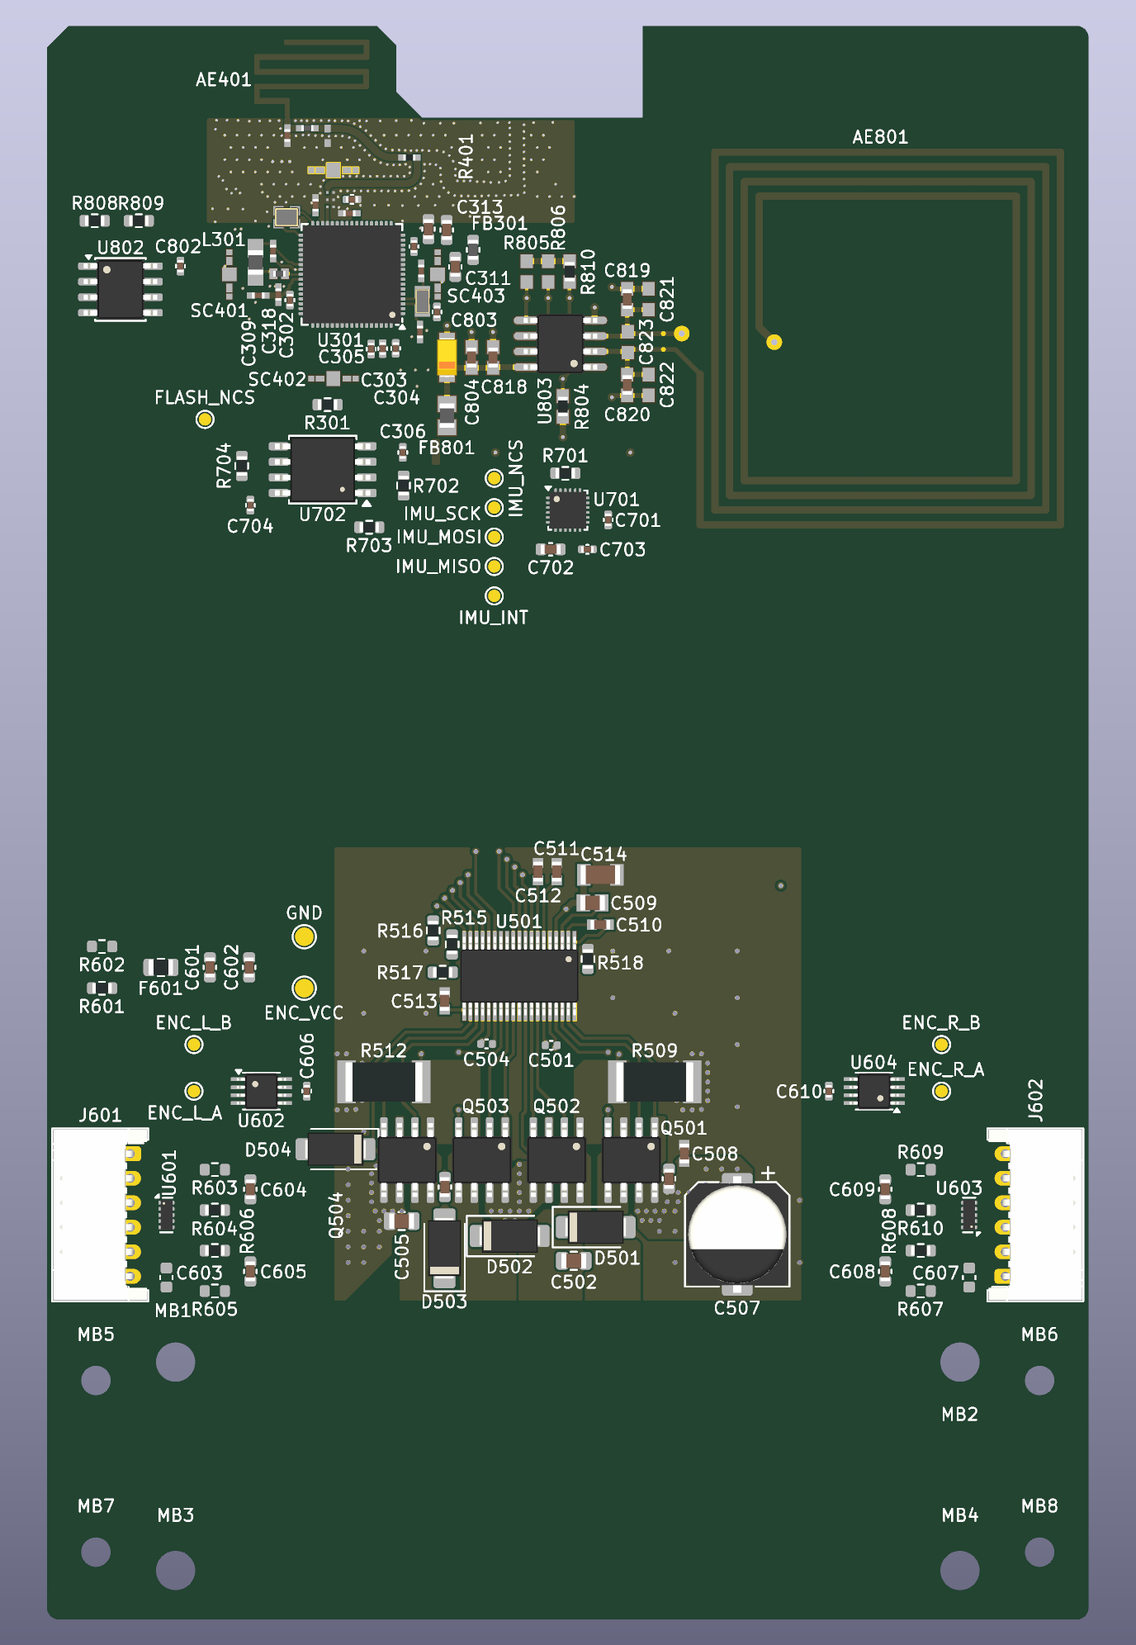
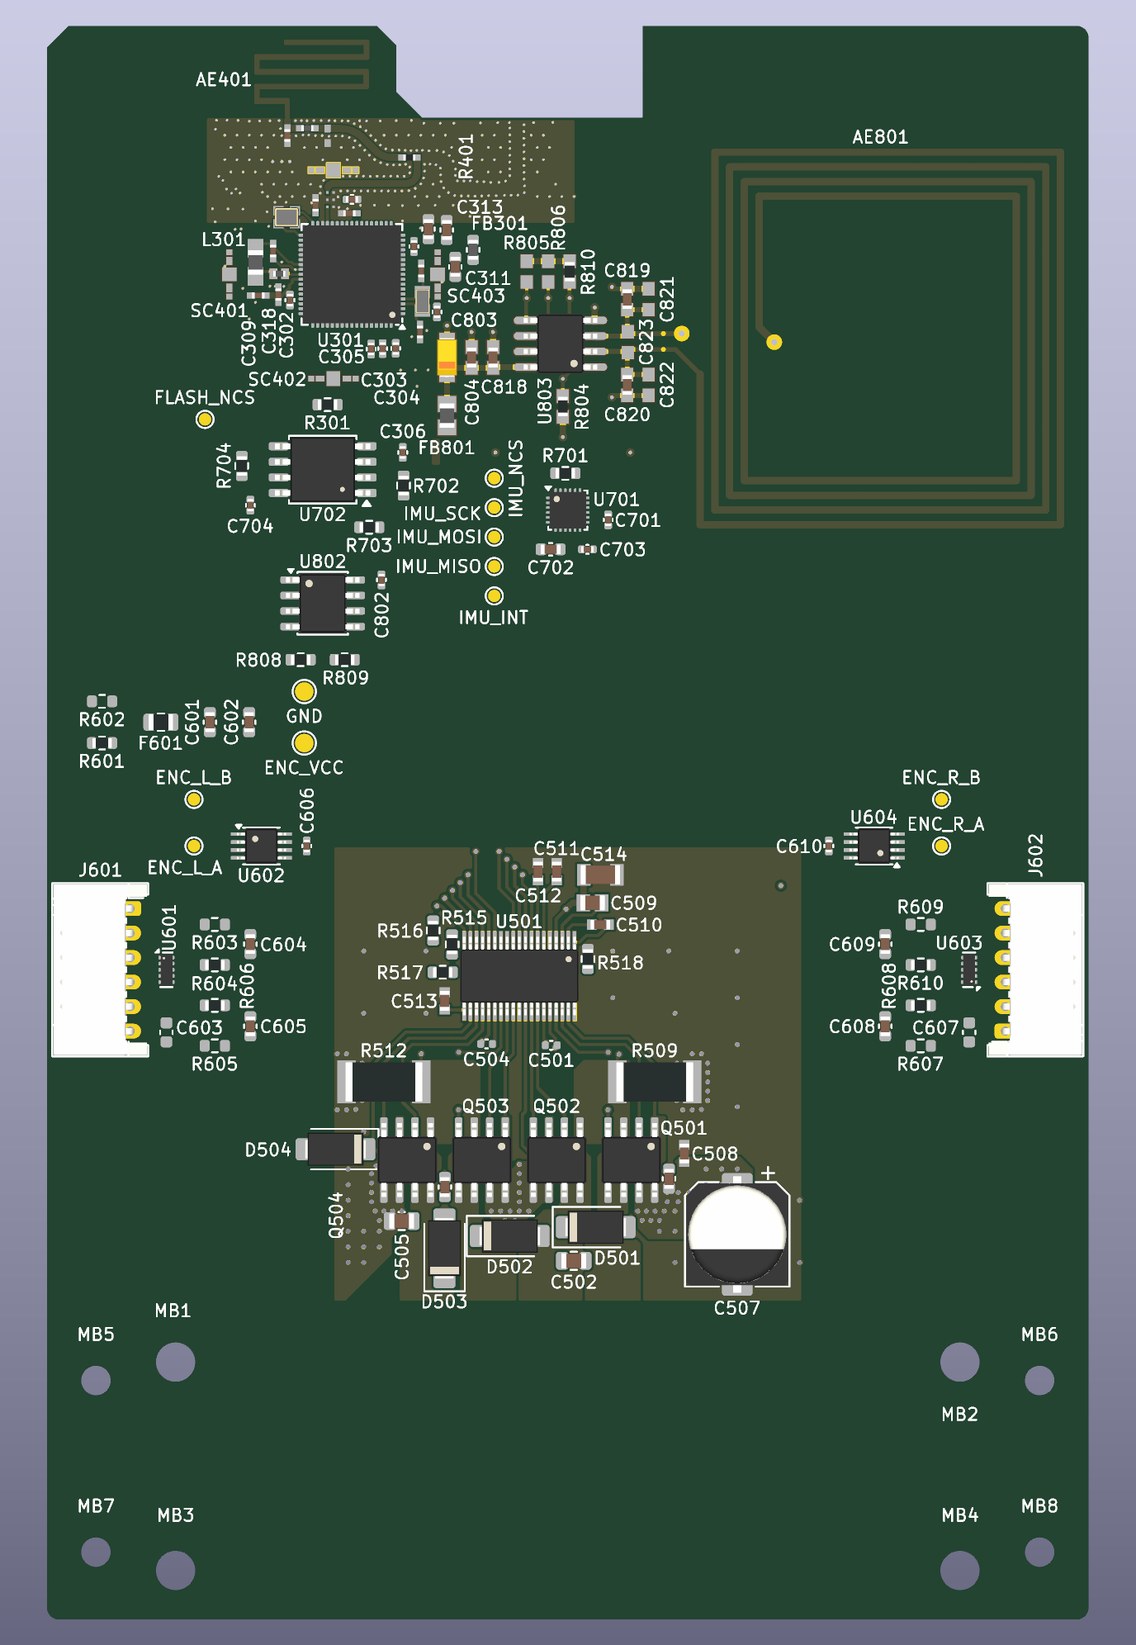
feat(pcb): motor connectors 20 mm higher, EEPROM under the flash (D-044)
- J601 / J602, their encoder chains and supply move up 20 mm: pins at
  x +-35.7 from z 35.5 to 45.5. The upper four pins of each sit over the
  battery's side edges: the cradle gets a relief there, and the battery
  rule exempts J601 / J602 only (placement.BATTERY_RELIEF, DRC rule; a test
  with J101 under the battery is still caught).
- U802 (M24C64) under U702 in the same column (x -20), C802 and the I2C3
  pull-ups below it.
- place_block.py --replace re-places a block after its table changes.

Claude-Session: https://claude.ai/code/session_014WUWh5VkSPnHwtWn45y92W

Changed region(s): [[0.0312, 0.3424, 0.3438, 0.8092], [0.6875, 0.4669, 0.9688, 0.8092], [0.0625, 0.1245, 0.1562, 0.2179]]

diff --git a/scripts/pcb/placement.py b/scripts/pcb/placement.py
@@ -135,10 +135,10 @@ DRAWINGS = [
     ("rect", (-_HALF, GROUND_EDGE_Z), (_TAB_RIGHT, TOP_Z), "MB1355 ANTENNA TAB (D-037)"),
 ]
 
-# Motor connectors and encoder inputs at the side edges (owner, D-042), placed once by
+# Motor connectors and encoder inputs at the side edges (owner, D-042), raised 20 mm (owner, D-044), placed once by
 # scripts/pcb/place_block.py motor_io.
 # (ref, x, z, rotation): mechanical, at the centre of the footprint's pads. J601's plug faces the left edge (its courtyard
-# ends at the edge and 0.5 mm above the bracket strip), pin 1 (M-) at the top, pins 2-5 (VCC, A, B, GND) between the
+# ends at the edge; pins z 35.5-45.5, the upper four over the battery cradle's relief, BATTERY_RELIEF), pin 1 (M-) at the top, pins 2-5 (VCC, A, B, GND) between the
 # motor pins. The encoder chain follows the signal inward: U601 (ESD, pass-through pads 1 / 2 on A / B, interface-layout
 # s2), four rows (A pull-up DNP, A 100 Ohm, B 100 Ohm, B pull-up DNP) with a label lane beside each, then the 1 nF caps;
 # the SN74LVC3G17, its bypass and its test pads sit above the rows (z 30), where the drive stage leaves room, with the
@@ -146,32 +146,34 @@ DRAWINGS = [
 # The right side mirrors the left across x = 0, each part turned 180 degrees: J602's pin 1 is at the bottom, so there A
 # sits below B and the row parts map by row (MOTOR_IO_RIGHT_REFS).
 MOTOR_IO_LEFT = [
-    ("J601", -35.7, 20.5, 270.0),
-    ("U601", -32.75, 20.5, 0.0),
-    ("C603", -32.75, 15.4, 90.0),
-    ("R603", -28.8, 24.2, 0.0),
-    ("R604", -28.8, 20.9, 0.0),
-    ("R606", -28.8, 17.6, 0.0),
-    ("R605", -28.8, 14.3, 0.0),
-    ("C604", -25.9, 22.6, 90.0),
-    ("C605", -25.9, 15.9, 90.0),
-    ("U602", -25.0, 30.6, 0.0),
-    ("C606", -21.3, 30.6, 90.0),
-    ("TP601", -30.5, 30.6, 0.0),
-    ("TP602", -30.5, 34.4, 0.0),
+    ("J601", -35.7, 40.5, 270.0),
+    ("U601", -32.75, 40.5, 0.0),
+    ("C603", -32.75, 35.4, 90.0),
+    ("R603", -28.8, 44.2, 0.0),
+    ("R604", -28.8, 40.9, 0.0),
+    ("R606", -28.8, 37.6, 0.0),
+    ("R605", -28.8, 34.3, 0.0),
+    ("C604", -25.9, 42.6, 90.0),
+    ("C605", -25.9, 35.9, 90.0),
+    ("U602", -25.0, 50.6, 0.0),
+    ("C606", -21.3, 50.6, 90.0),
+    ("TP601", -30.5, 50.6, 0.0),
+    ("TP602", -30.5, 54.4, 0.0),
 ]
+# Through-hole parts whose pins may sit over the battery: the cradle has a relief for them (owner, D-044).
+BATTERY_RELIEF = {"J601", "J602"}
 MOTOR_IO_RIGHT_REFS = {"J601": "J602", "U601": "U603", "C603": "C607", "U602": "U604", "C606": "C610",
                        "R603": "R609", "R604": "R610", "R606": "R608", "R605": "R607", "C604": "C609", "C605": "C608",
                        "TP601": "TP603", "TP602": "TP604"}
 # Encoder supply (one, above the left chain): +5V -> R601 (or R602, DNP, from +3V3) -> F601 PTC -> C601 / C602 -> ENC_VCC.
 MOTOR_IO_SUPPLY = [
-    ("R601", -38.0, 39.0, 0.0),
-    ("R602", -38.0, 42.4, 0.0),
-    ("F601", -33.2, 40.7, 0.0),
-    ("C601", -29.2, 40.7, 90.0),
-    ("C602", -26.0, 40.7, 90.0),
-    ("TP605", -21.5, 39.0, 0.0),
-    ("TP606", -21.5, 43.2, 0.0),
+    ("R601", -38.0, 59.0, 0.0),
+    ("R602", -38.0, 62.4, 0.0),
+    ("F601", -33.2, 60.7, 0.0),
+    ("C601", -29.2, 60.7, 90.0),
+    ("C602", -26.0, 60.7, 90.0),
+    ("TP605", -21.5, 59.0, 0.0),
+    ("TP606", -21.5, 63.2, 0.0),
 ]
 
 
@@ -180,13 +182,13 @@ def motor_io():
     right = [(MOTOR_IO_RIGHT_REFS[ref], -x, z, (rot + 180.0) % 360.0) for ref, x, z, rot in MOTOR_IO_LEFT]
     return MOTOR_IO_LEFT + right + MOTOR_IO_SUPPLY
 
-# IMU on the centre line, flash below the MCU, EEPROM left of it (owner, D-043), placed once by
+# IMU on the centre line, flash below the MCU, EEPROM stacked under the flash (owner, D-043, D-044), placed once by
 # scripts/pcb/place_block.py imu_memory. (ref, x, z, rotation): mechanical, at the centre of the footprint's pads.
 # U701 (MPU-6500) at rotation 0, pin 1 top-left: chip +X along +x, +Y up, +Z out of the component side
 # (PS-MPU-6500A-01 s9.1); its decoupling at the pins it serves (Table 11: VDDIO pin 8, REGOUT pin 10, VDD pin 13), the
 # nCS pull-up by pin 22, the SPI2 / INT test pads in a column beside it. U702 (W25Q16JV) under the MCU's SPI1 pins, turned so DI / CLK
-# (pins 5 / 6) face R301 and VCC (pin 8, C704) points away from the MCU's caps, its /CS, /WP, /HOLD pull-ups at their pins; R301 (SPI1 SCK source termination) at the MCU's SCK pin. U802 (M24C64) in the
-# free band left of the MCU, SDA / SCL toward it, the I2C3 pull-ups above it.
+# (pins 5 / 6) face R301 and VCC (pin 8, C704) points away from the MCU's caps, its /CS, /WP, /HOLD pull-ups at their pins; R301 (SPI1 SCK source termination) at the MCU's SCK pin. U802 (M24C64) under the
+# flash in the same column (x -20, D-044), SDA / SCL on its right, the I2C3 pull-ups below it.
 IMU_POSITION = (0.0, 78.0)
 IMU_MEMORY = [
     ("U701", IMU_POSITION[0], IMU_POSITION[1], 0.0),
@@ -206,10 +208,10 @@ IMU_MEMORY = [
     ("R704", -26.6, 81.6, 90.0),
     ("TP706", -29.6, 85.4, 0.0),
     ("R301", -19.6, 86.6, 0.0),
-    ("U802", -36.5, 96.0, 0.0),
-    ("C802", -31.6, 97.9, 90.0),
-    ("R808", -38.6, 101.6, 0.0),
-    ("R809", -35.0, 101.6, 0.0),
+    ("U802", -20.0, 70.4, 0.0),
+    ("C802", -15.2, 72.3, 90.0),
+    ("R808", -21.8, 65.8, 0.0),
+    ("R809", -18.2, 65.8, 0.0),
 ]
 
 

diff --git a/scripts/pcb/place_block.py b/scripts/pcb/place_block.py
@@ -10,11 +10,13 @@
 Each block is a list from placement.py of (ref, x, z, rotation): mechanical, at the centre of the footprint's pads. The
 parts move from the staging area to their spots, and the script refuses if any part:
   - leaves the board, or its courtyard reaches into the bracket strip (no parts there, D-026);
-  - puts a through-hole pin over the battery (BATTERY_BACK, D-025);
+  - puts a through-hole pin over the battery (BATTERY_BACK, D-025), except the parts the cradle has a relief for
+    (placement.BATTERY_RELIEF, D-044);
   - touches another part's courtyard, comes closer than rf_block.PART_CLEARANCE to another net's copper, or overlaps
     another silk outline (rf_block.spot_ok).
 It locks the block's anchors and lays the silkscreen labels out (silk.py, D-041). Re-running is a no-op once the
-anchors are on the board. Run board.py first so the parts exist.
+anchors are on the board; --replace moves an already placed block to its table again (after the owner changes it).
+Run board.py first so the parts exist.
 """
 
 import argparse
@@ -49,6 +51,7 @@ def problems(board, fp, outline, others):
     corners = [pcbnew.VECTOR2I(x, y) for x in (box.GetLeft(), box.GetRight()) for y in (box.GetTop(), box.GetBottom())]
     if not all(outline.Contains(c) for c in corners):
         found.append("courtyard leaves the board")
+    relief = fp.GetReference() in placement.BATTERY_RELIEF
     if box.GetBottom() >= B.to_board(0.0, placement.STRIP_TOP_Z).y:
         found.append("courtyard reaches the bracket strip")
     battery = placement.BATTERY
@@ -56,7 +59,7 @@ def problems(board, fp, outline, others):
     y0, y1 = B.to_board(0, battery["z1"] + 1).y, B.to_board(0, battery["z0"] - 1).y
     for pad in fp.Pads():
         p = pad.GetPosition()
-        if pad.GetAttribute() == pcbnew.PAD_ATTRIB_PTH and x0 <= p.x <= x1 and y0 <= p.y <= y1:
+        if not relief and pad.GetAttribute() == pcbnew.PAD_ATTRIB_PTH and x0 <= p.x <= x1 and y0 <= p.y <= y1:
             found.append(f"through-hole pin {pad.GetNumber()} over the battery")
     if not RF.spot_ok(board, fp, others):
         found.append("touches a courtyard, another net's copper or a silk outline")
@@ -101,10 +104,10 @@ def apply(board, name):
     print(f"placed {len(parts)} parts: {' / '.join(anchors)} locked")
 
 
-def stage(name):
+def stage(name, replace):
     board = pcbnew.LoadBoard(str(B.BOARD))
     anchors = BLOCKS[name][1]
-    if has_placed(board, anchors):
+    if has_placed(board, anchors) and not replace:
         print(f"{' / '.join(anchors)} already on the board: nothing to do")
         sys.exit(3)
     apply(board, name)
@@ -114,15 +117,16 @@ def stage(name):
 def main():
     parser = argparse.ArgumentParser(description=__doc__.split("\n")[0])
     parser.add_argument("--apply", choices=sorted(BLOCKS), help="the block to place (one shot)")
+    parser.add_argument("--replace", action="store_true", help="move an already placed block to its table again")
     parser.add_argument("--pcbnew-stage", choices=sorted(BLOCKS), help=argparse.SUPPRESS)
     args = parser.parse_args()
     if args.pcbnew_stage:
-        stage(args.pcbnew_stage)
+        stage(args.pcbnew_stage, args.replace)
         return
     if not args.apply:
         parser.error("nothing to do without --apply <block>")
     project = B.PROJECT.read_bytes()
-    result = subprocess.run([sys.executable, __file__, "--pcbnew-stage", args.apply])
+    result = subprocess.run([sys.executable, __file__, "--pcbnew-stage", args.apply] + (["--replace"] if args.replace else []))
     B.PROJECT.write_bytes(project)
     if result.returncode == 3:
         return

diff --git a/scripts/pcb/board.py b/scripts/pcb/board.py
@@ -137,8 +137,8 @@ CUSTOM_RULES = """
 """
 
 CUSTOM_RULES += """
-(rule "Battery on the back: no through-hole pins under it (D-025); plated holes <= 0.4 mm (thermal vias) are vias"
-  (condition "A.Type == 'Pad' && A.Pad_Type == 'Through-hole' && A.Hole_Size_X > 0.4mm && A.insideArea('BATTERY_BACK')")
+(rule "Battery on the back: no through-hole pins under it (D-025); plated holes <= 0.4 mm (thermal vias) are vias; J601 / J602 sit over the cradle's relief (D-044)"
+  (condition "A.Type == 'Pad' && A.Pad_Type == 'Through-hole' && A.Hole_Size_X > 0.4mm && A.insideArea('BATTERY_BACK') && !A.memberOfFootprint('J601') && !A.memberOfFootprint('J602')")
   (constraint disallow pad))
 
 (rule "Bracket strip: no parts except the bracket holes (D-026)"

diff --git a/docs/decisions.md b/docs/decisions.md
@@ -48,3 +48,4 @@ D-013 to D-015 were signed off at the Phase 0 gate; D-016 was agreed at the same
 | D-041 | **Every part's reference on the silkscreen at JLCPCB's smallest text, none touching anything** (supersedes the 'references on F.Fab' of D-037 / D-039 / D-040). Labels are 1.0 mm high with a 0.15 mm line, KiCad's stroke font, upright at 0° or 90° (JLCPCB's published minimum, `pcb-design-rules` jlcpcb profile). `scripts/pcb/silk.py` places them (`board.py` and the paste scripts run it last): 0.15 mm from every other label, outline and mask opening (JLCPCB's silk-to-pad); off vias, part bodies (courtyards) and the antenna tab; 0.5 mm inside the edge; nearer their own part than any other. A clean label is never moved. Where no such spot exists within 3 mm the reference goes to F.Fab (assembly drawing): 17 parts in the MB1355 core (C301, C307, C308, C310, C312, C314–C317, C401, C402, FL401, L302, L401, SC404, Y301, Y302) and C503 / C506 beside TI's FETs. Footprint outlines are raised from KiCad's 0.12 mm to JLCPCB's 0.15 mm line. DRC: `silk_overlap`, `silk_over_copper`, `silk_edge_clearance`, `text_height`, `text_thickness` are errors; two parts' outlines may sit closer than 0.15 mm but never overlap (project rule; JLCPCB states no silk-to-silk figure), and the drive extras are placed with no outline overlap (D503, C505, C506 moved ≤ 0.6 mm). | 0.8 mm text in the dense corners (below JLCPCB's minimum); references on F.Fab for every copied corner (D-037 / D-039 / D-040) | Owner (2026-11-15): references on the silkscreen, not overlapping, clean and professional, at the smallest font JLCPCB makes. At 1.0 mm, 0402 parts at ST's 1 mm pitch leave no room; JLCPCB assembles from the pick-and-place file, so those references only matter for rework, where the assembly drawing has them. |
 | D-042 | **The motor connectors and their encoder inputs sit at the side edges, and bridge B drives the left motor.** J601 (left MG310) at the left edge and J602 at the right, JST PH S6B-PH-K with the plug entering from the side, pins at x ±35.7 from z 15.5 to 25.5 just above the bracket strip, locked as anchors. Each encoder chain runs inward in signal order: ESD at pins 2–5 (pass-through, interface-layout §2), the RC rows, the SN74LVC3G17 with its bypass and test pads above them; the right side mirrors the left; the encoder supply sits above the left chain. Placed by `scripts/pcb/place_block.py motor_io` from `placement.motor_io()`. Since D-040's 180° turn put bridge A on the right, the bridges are swapped so that each feeds the connector on its own side: bridge B (left) drives the left motor, bridge A the right; the MCU pins stay as the firmware has them (PA8 / PA9 = `leftInput1/2` now reach BIN1 / BIN2, PA10 / PA11 reach AIN1 / AIN2). Supersedes 'bridge A for the left motor' (HW-DRV-001, D-040, `docs/drive.md`). | Keep bridge A = left and cross the phases to the opposite edges; plug opening toward the bracket strip (clashes with the M2 / M3 screw heads) | Owner (2026-11-15): connectors per edge, close to the motor bracket; swap the bridges; place the supply and test pads too. The phases now run 15–25 mm on their own side instead of crossing. Firmware: unchanged pins and timer channels; the DRV8711's B status bits are the left motor's. The firmware design note (`motion-actuation.md` Part A, 'the left motor hangs on the first bridge') needs the same update. |
 | D-043 | **The IMU sits on the centre line; the flash and the EEPROM sit beside the MCU.** U701 (MPU-6500) at (0, 78), 78 mm above the axle, rotation 0, locked; its decoupling at its pins (PS-MPU-6500A-01 Table 11), the nCS pull-up and the SPI2 / INT test pads beside it. Axis map published in `docs/firmware-interface.md`: body (x, y, z) = chip (+Z, +X, +Y) for forward = the component side. U702 (W25Q16JV) below the MCU under its SPI1 pins, turned 180° so DI / CLK face R301 (SPI1 SCK 33 Ω, now between the MCU and the flash), with its pull-ups, bypass and FLASH_NCS test pad. U802 (M24C64) left of the MCU with C802 and the I2C3 pull-ups R808 / R809. Placed by `scripts/pcb/place_block.py imu_memory` from `placement.imu_memory()`; `motor_io.py` became `place_block.py` (blocks `motor_io`, `imu_memory`). Supersedes 'IMU beside the MCU, about 90 mm' (D-029, HW-SNS-002). | IMU in the top-centre pocket between ST's RF strip and the NFC coil (x ≈ +3, z ≈ 105: no room for its test pads, SPI2 detours round the NFC cluster); EEPROM below the MCU beside the flash | Owner (2026-11-15): IMU close to the top / centre, flash and EEPROM close to the MCU. The literal top centre is taken by the MB1355 RF strip and the MB1163 NFC copy; the centre line just below the NFC tag keeps the IMU on the body's symmetry plane, ≥ 35 mm from the 2.4 GHz antenna, with room for its support parts. r = 78 mm (was ~90) for the tangential-acceleration term. |
+| D-044 | **The motor connectors sit 20 mm higher, and the EEPROM sits under the flash.** J601 / J602 and their encoder chains and supply move up 20 mm: pins at x ±35.7 from z 35.5 to 45.5. Their upper four pins sit over the battery's side edges, so the battery cradle gets a relief there (x ±34.3…±37.1, z 38.4–46.6) and the 'no through-hole pins under the battery' rule (D-025) exempts J601 / J602 (`placement.BATTERY_RELIEF`, project DRC rule); any other through-hole part is still caught. U802 (M24C64) moves under U702 in the same column (x −20, z 70.4), with C802 and the I2C3 pull-ups R808 / R809 below it. `place_block.py --replace` re-places a block after its table changes. | +12.5 mm (the highest with every pin clear of the battery); +15 mm (two pins under it); EEPROM side by side with the flash at its height | Owner (2026-11-15): connectors 15–20 mm higher, chose +20 mm with the cradle relief; EEPROM and flash aligned in one column. The phases now run about 22 mm up each side from the pours at z 13.5; I2C3 runs about 50 mm to the EEPROM, inside the bus budget (`docs/nfc.md`). |

diff --git a/docs/layout.md b/docs/layout.md
@@ -66,10 +66,11 @@ These are on the board as rule areas (they can be moved or edited in KiCad) and 
     INT test pads in a column to its left.
   - U702 (W25Q16JV) below the MCU at (−20, 81.3), turned 180° so DI / CLK face R301 (SPI1 SCK 33 Ω, between the MCU and
     the flash); C704 at VCC, R702 / R703 / R704 at /CS, /WP, /HOLD; TP706 (FLASH_NCS) to the left.
-  - U802 (M24C64) in the band left of the MCU at (−36.5, 96), SDA / SCL toward the MCU, C802 at VCC, the I2C3 pull-ups
-    R808 / R809 above it.
+  - U802 (M24C64) stacked under the flash in the same column (−20, 70.4; D-044), SDA / SCL on its right, C802 at VCC,
+    the I2C3 pull-ups R808 / R809 below it.
   - Still yours, routing: SPI2 from the MCU's left pins (46–50) to the IMU, about 30 mm, under the NFC cluster; I2C3 from
-    the MCU's top pins (28 / 29) around its left side; SPI1 and FLASH_NCS from the bottom pins. Keep them off the RF
+    the MCU's top pins (28 / 29) around its left side and down to the EEPROM, about 50 mm (inside the bus
+    budget's 15 cm, `docs/nfc.md`); SPI1 and FLASH_NCS from the bottom pins. Keep them off the RF
     strip and the L2 cut-out under the RF line.
 - **NFC (`docs/nfc.md`):** done by the copy. The group "MB1163 NFC corner" holds AE801 (ANT14), U803 (M24SR64-Y) and
   ST's cluster (FB801, C803 / C804 / C818–C823, R804–R806, R810) with ST's tracks, vias and GND pour, turned 90° from ST's
@@ -81,20 +82,23 @@ These are on the board as rule areas (they can be moved or edited in KiCad) and 
   group. Still yours: the phase outputs to J601 / J602, the logic pins to the MCU, the board-wide ground.
 - **Power (`docs/power-map.md`, power-pcb-layout §3):**
   - **Buck:** TPS62933F per SLUSEA4 §12, its switch node kept small and away from the IMU and the antenna.
-- **Motor connectors and encoder inputs (D-042, `scripts/pcb/place_block.py motor_io`): placed.**
-  - J601 at the left edge and J602 at the right, plug entering from the side, pins at x ±35.7 from z 15.5 to 25.5, just
-    above the bracket strip; both locked. J601's pin 1 (M−) is at the top, J602's at the bottom.
+- **Motor connectors and encoder inputs (D-042, D-044, `scripts/pcb/place_block.py motor_io`): placed.**
+  - J601 at the left edge and J602 at the right, plug entering from the side, pins at x ±35.7 from z 35.5 to 45.5
+    (raised 20 mm, D-044); both locked. The upper four pins of each sit over the battery's edge: the cradle needs a
+    relief there (`docs/mechanical.md`). J601's pin 1 (M−) is at the top, J602's at the bottom.
   - Inward from each connector, in signal order: the ESD (U601 / U603) beside pins 2–5, the four RC rows (pull-up DNP,
     100 Ω, 100 Ω, pull-up DNP) at x ±28.8, the 1 nF caps at x ±25.9, then the SN74LVC3G17 (U602 / U604) with its
-    bypass and test pads above the rows at z 30.6. The right side mirrors the left.
-  - The encoder supply (R601 / R602, F601, C601 / C602, TP605 / TP606) sits above the left chain, z 39–43.
+    bypass and test pads above the rows at z 50.6. The right side mirrors the left.
+  - The encoder supply (R601 / R602, F601, C601 / C602, TP605 / TP606) sits above the left chain, z 59–63.
   - Still yours, routing:
-    - Both motor pins leave at the bottom of the connector, toward the phase pours that end at z 13.5 on the same side.
+    - Both motor pins leave at the bottom of the connector and run about 22 mm down the side to the phase pours that end
+      at z 13.5 on the same side.
       The top motor pin's trace runs down under the housing, outboard of the pads, so no motor copper passes the
       encoder rows.
     - Connector → ESD with no via and no stub, a GND via at the ESD's GND pins (interface-layout §2).
     - ENC_VCC across to J602; the buffered outputs to PC0 / PC2 (left) and PA0 / PA1 (right).
-- **Through-hole parts:** J101 XT30, SW101 switch, J601/J602 PH 6-pin. They must stay outside `BATTERY_BACK`.
+- **Through-hole parts:** J101 XT30, SW101 switch, J601/J602 PH 6-pin. They must stay outside `BATTERY_BACK`, except
+  J601 / J602, whose pins sit over the cradle's relief (D-044, project rule).
 - **Holes for you to place (staged under "Mechanical"):** battery cradle MC1–MC4 and bumpers MH1/MH2. Footprints
   `MountingHole_M3_NPTH_KeepOut7mm` and `..._M2_..._KeepOut5.5mm` are in the project library for more.
 

diff --git a/CLAUDE.md b/CLAUDE.md
@@ -86,8 +86,9 @@ The `hardware-design` plugin (marketplace `hardware-skills`, registered in
 - `python3 scripts/drv_reference.py`: TI's BOOST-DRV8711 PcbDoc (`reference/boost-drv8711/`, gitignored) ->
   `scripts/pcb/boost_drv8711.json` and the `BOOST_*` footprints (D-040). `python3 scripts/pcb/drv_block.py --apply`: paste it.
 - `python3 scripts/pcb/place_block.py --apply <block>`: place a block of parts at the owner's spots from `placement.py`, once
-  (anchors locked): `motor_io` = J601 / J602 at the side edges with their encoder chains and supply (D-042);
-  `imu_memory` = the IMU on the centre line, the flash below the MCU, the EEPROM left of it (D-043).
+  (anchors locked; `--replace` moves a placed block to its changed table): `motor_io` = J601 / J602 at the side edges
+  with their encoder chains and supply (D-042, raised 20 mm by D-044); `imu_memory` = the IMU on the centre line, the
+  flash below the MCU, the EEPROM stacked under it (D-043, D-044).
 - `python3 scripts/pcb/render.py`: per-layer, side, overview and 3D renders into `docs/images/`.
 - `python3 scripts/export_bom.py` then `python3 scripts/jlc_stock.py bom/bom.csv --boards 5`: BOM and stock.
 - `python3 scripts/fetch_datasheet.py <LCSC>`: datasheets into the gitignored `datasheets/`.

diff --git a/docs/mechanical.md b/docs/mechanical.md
@@ -133,3 +133,6 @@ Result (S0, `simulation/results/sizing_summary.json`):
 5. Motor plugs (D-042): J601 / J602 face sits 0.55 mm inside the side edge (**ASSUMPTION**: the footprint's silk keeps
    JLCPCB's clearance to the edge). Check the PH plug, its latch and the cable bend against the bracket legs (x ±51,
    behind the board) and the wheels on the assembled robot.
+6. **Battery cradle relief (D-044):** J601 / J602's upper four pins (x ±35.7, z 39.5–45.5) sit over the battery's side
+   edges. Their through-hole tails stick out on the back (**ASSUMPTION**: about 1.5 mm; measure the S6B-PH-K), so the
+   cradle needs a relief at x ±34.3…±37.1, z 38.4–46.6 (pads plus 0.5 mm).
